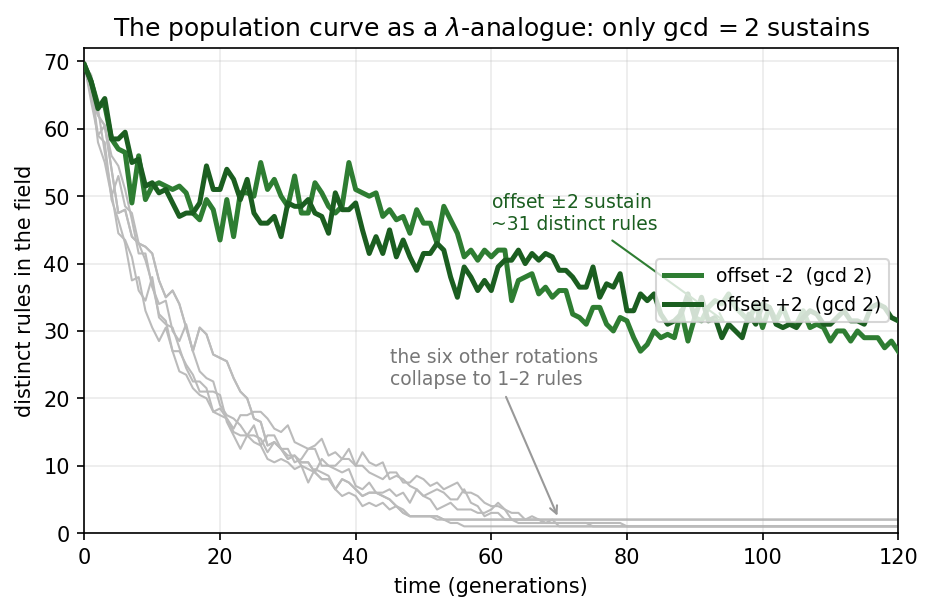
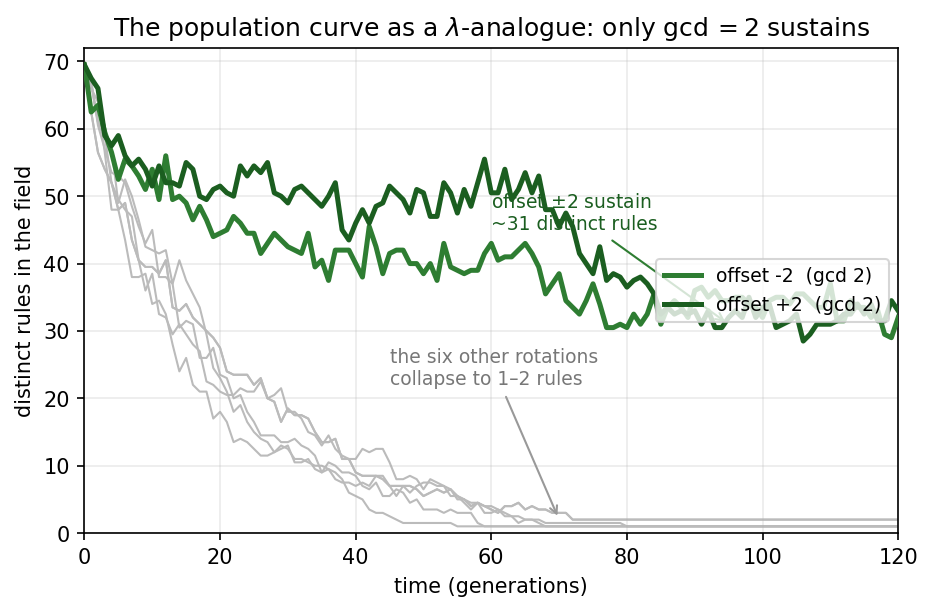
paper: regenerate all six figures under standard (Wolfram) ordering
Figures now come from the mmca engine with truth-table-3 standardised to
Wolfram order and operators shimmed through it (see mmca/FIGURES.md), so rules
render correctly (Rule 110 = gliders) while the exact draft.tex operators and
dynamics are preserved. Updated the Fig 1 / conclusion numbers to the
reproducible values: 16250374 -> 29% Rule 110 (seed 0) / 35% (six-seed),
diversity 17 vs foil 20 (seed 0), 15 vs 24 (sample). latexmk clean, 21 pp.

Changed region(s): [[0.0932, 0.1244, 0.9636, 0.8707]]

diff --git a/holes/tech-notes/paper/draft2.tex b/holes/tech-notes/paper/draft2.tex
@@ -145,8 +145,8 @@ the rest of this paper is about.
 \caption{Two operators from the family, each shown over time as genotype
 (256-colour, left) and phenotype (black and white, right). Under
 $\sig = 16250374$ the genotype field comes to be dominated by ECA
-Rule~110---the red cells, $30\%$ of the genotype at the representative seed
-($31\%$ over six seeds)---and the phenotype accordingly displays Rule~110's
+Rule~110---the red cells, $29\%$ of the genotype at the representative seed
+($35\%$ over six seeds)---and the phenotype accordingly displays Rule~110's
 characteristic gliders; under $\sig = 10275364$ a different regime of
 rule-domains forms (green and blue, under $2\%$ Rule~110). The operator does not merely stir rule space: it
 drives it toward particular, computationally distinguished rules. Genotype
@@ -557,11 +557,11 @@ representative run and as a fixed six-seed sample (\secref{sec:limits}). The
 operator of Figure~\ref{fig:regimes} that comes to be dominated by
 Rule~110---a universal rule, the naive prize of a search for computational
 intelligence---concentrates the field onto it and pays for it in diversity.
-At the representative seed, $30\%$ of its genotype cells are Rule~110 and it
-sustains $14$ distinct rules, against a foil that holds Rule~110 below $2\%$
-and sustains $17$; over the six-seed sample the ordering is unchanged---Rule
-110 $31\%$ (range $26$--$41\%$) versus $2\%$ ($1$--$3\%$), sustained diversity
-$18$ versus $22$. On this pair, recovering a universal rule and sustaining a
+At the representative seed, $29\%$ of its genotype cells are Rule~110 and it
+sustains $17$ distinct rules, against a foil that holds Rule~110 below $2\%$
+and sustains $20$; over the six-seed sample the ordering is unchanged---Rule
+110 $35\%$ (range $27$--$40\%$) versus $2\%$ ($1$--$2\%$), sustained diversity
+$15$ versus $24$. On this pair, recovering a universal rule and sustaining a
 diverse population pull against each other---a suggestion worth testing at
 scale, not a law we have established.
 
